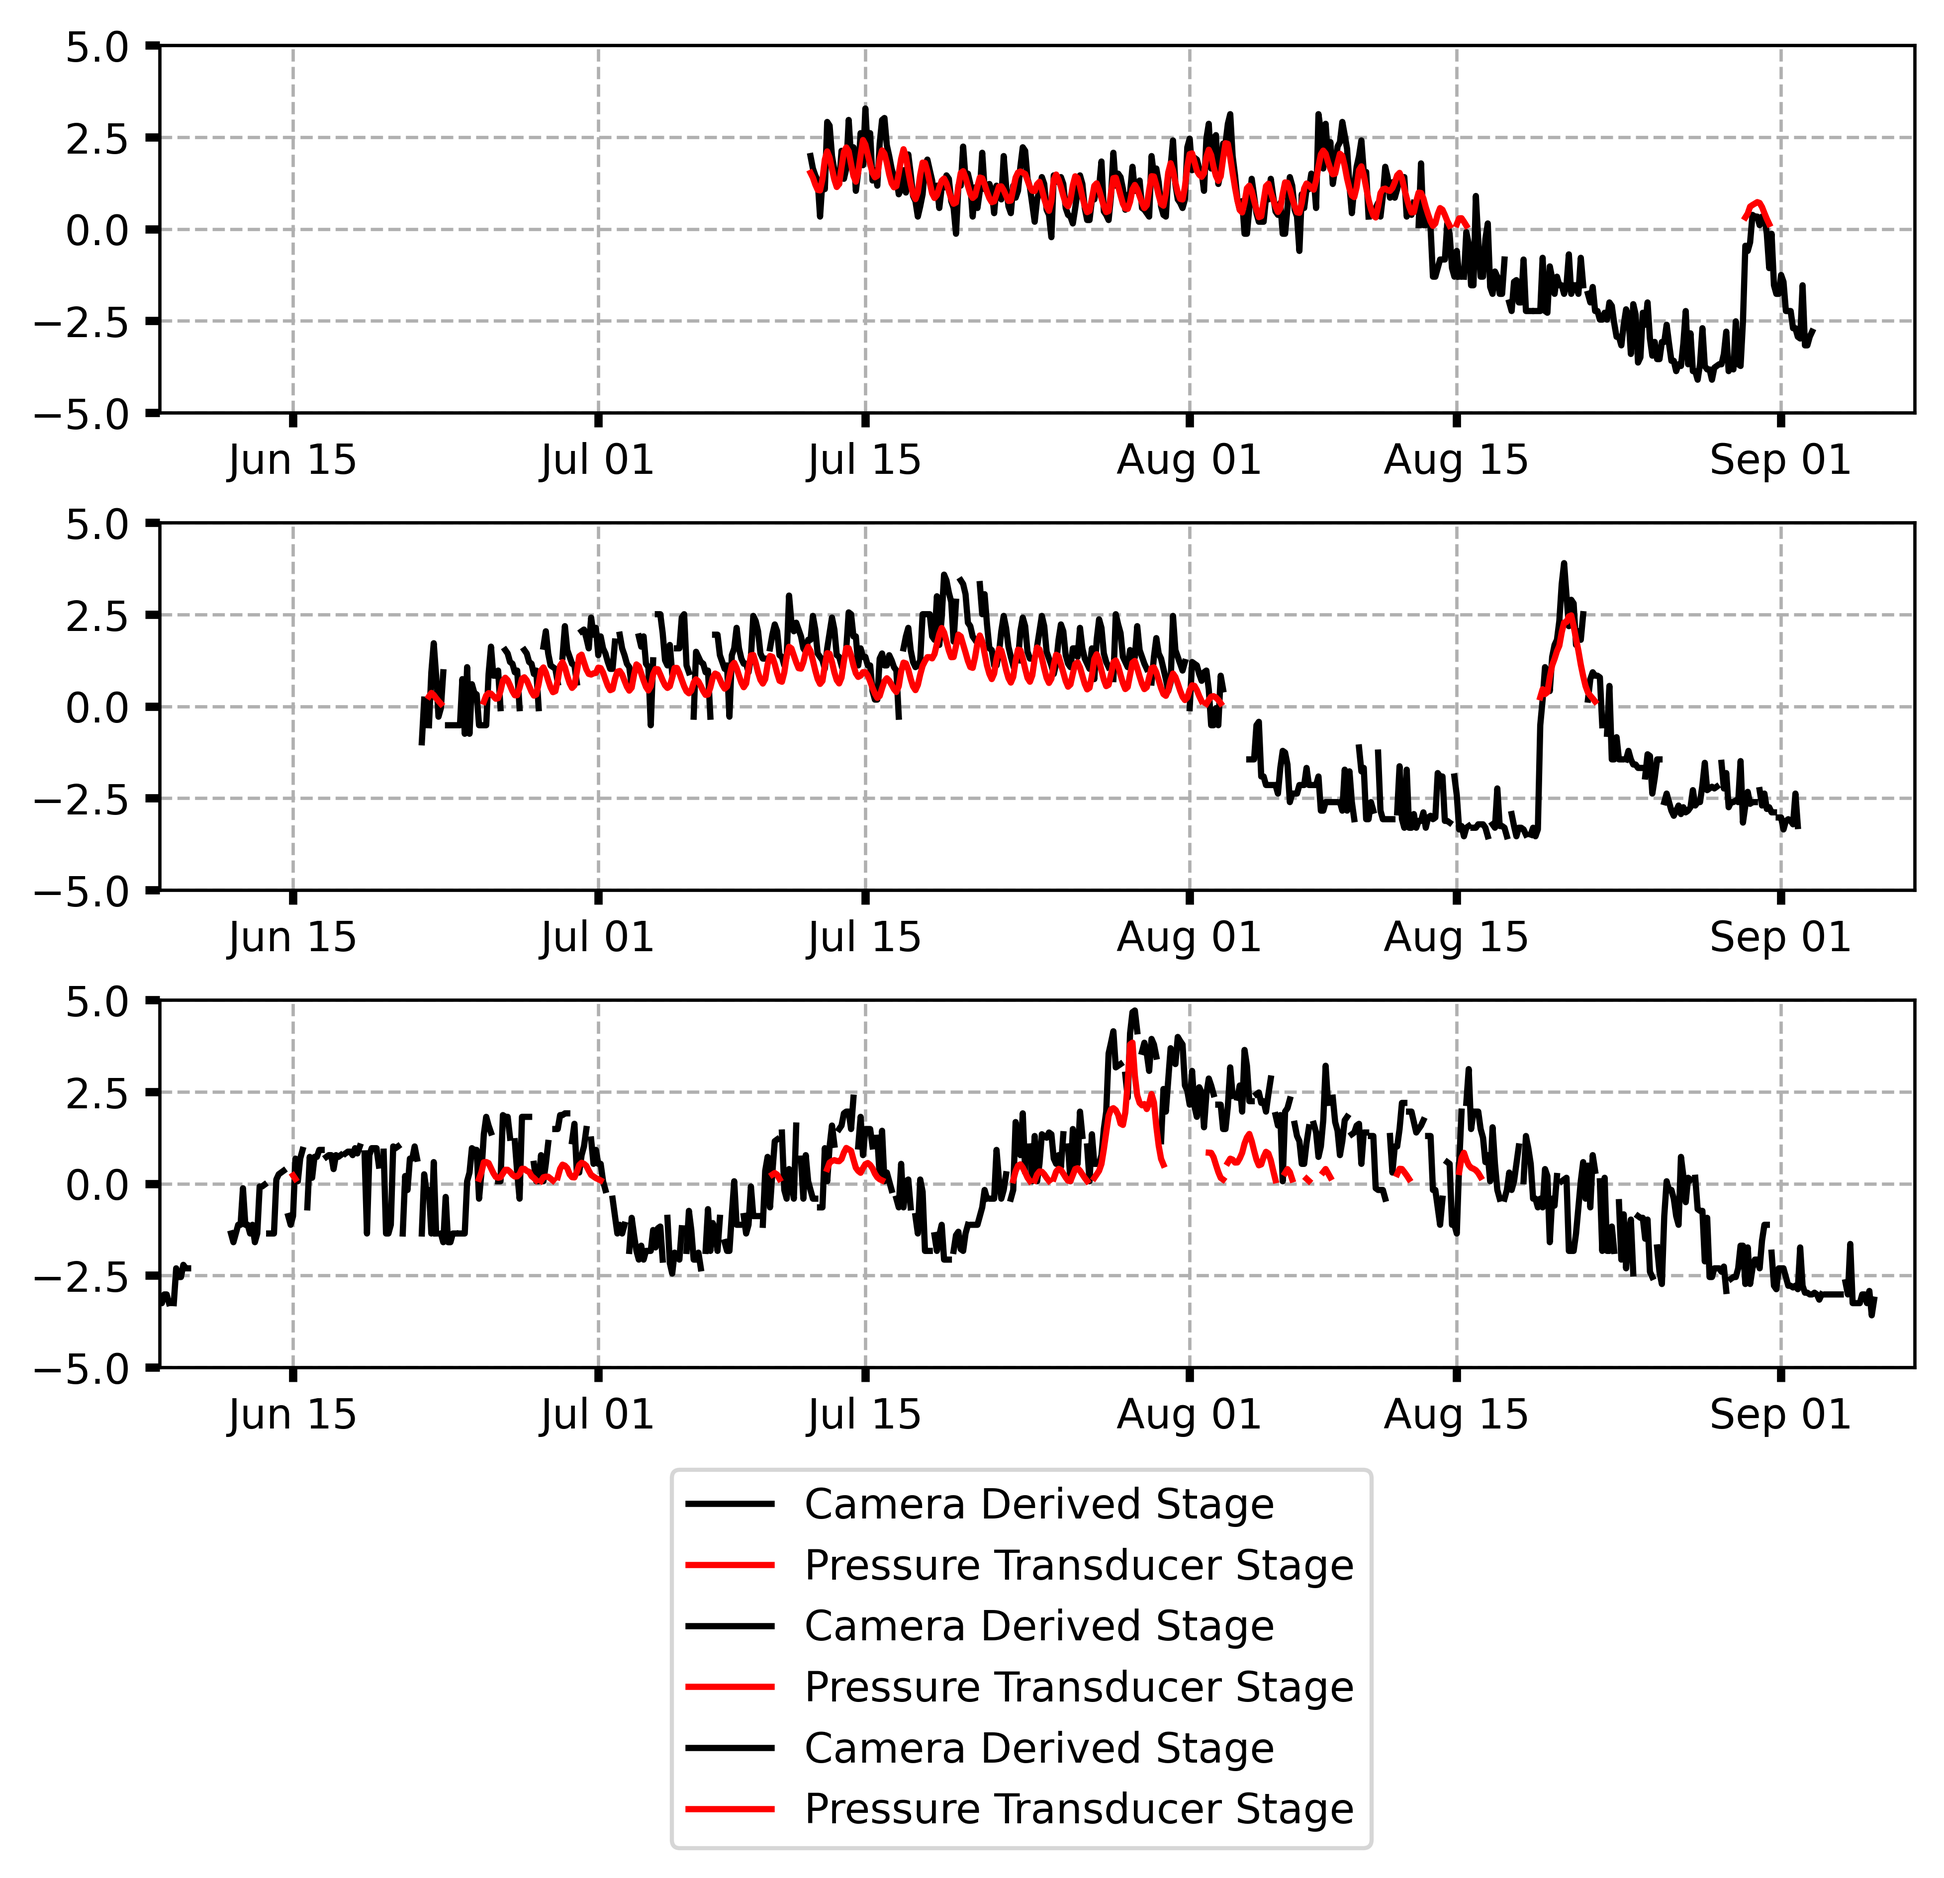
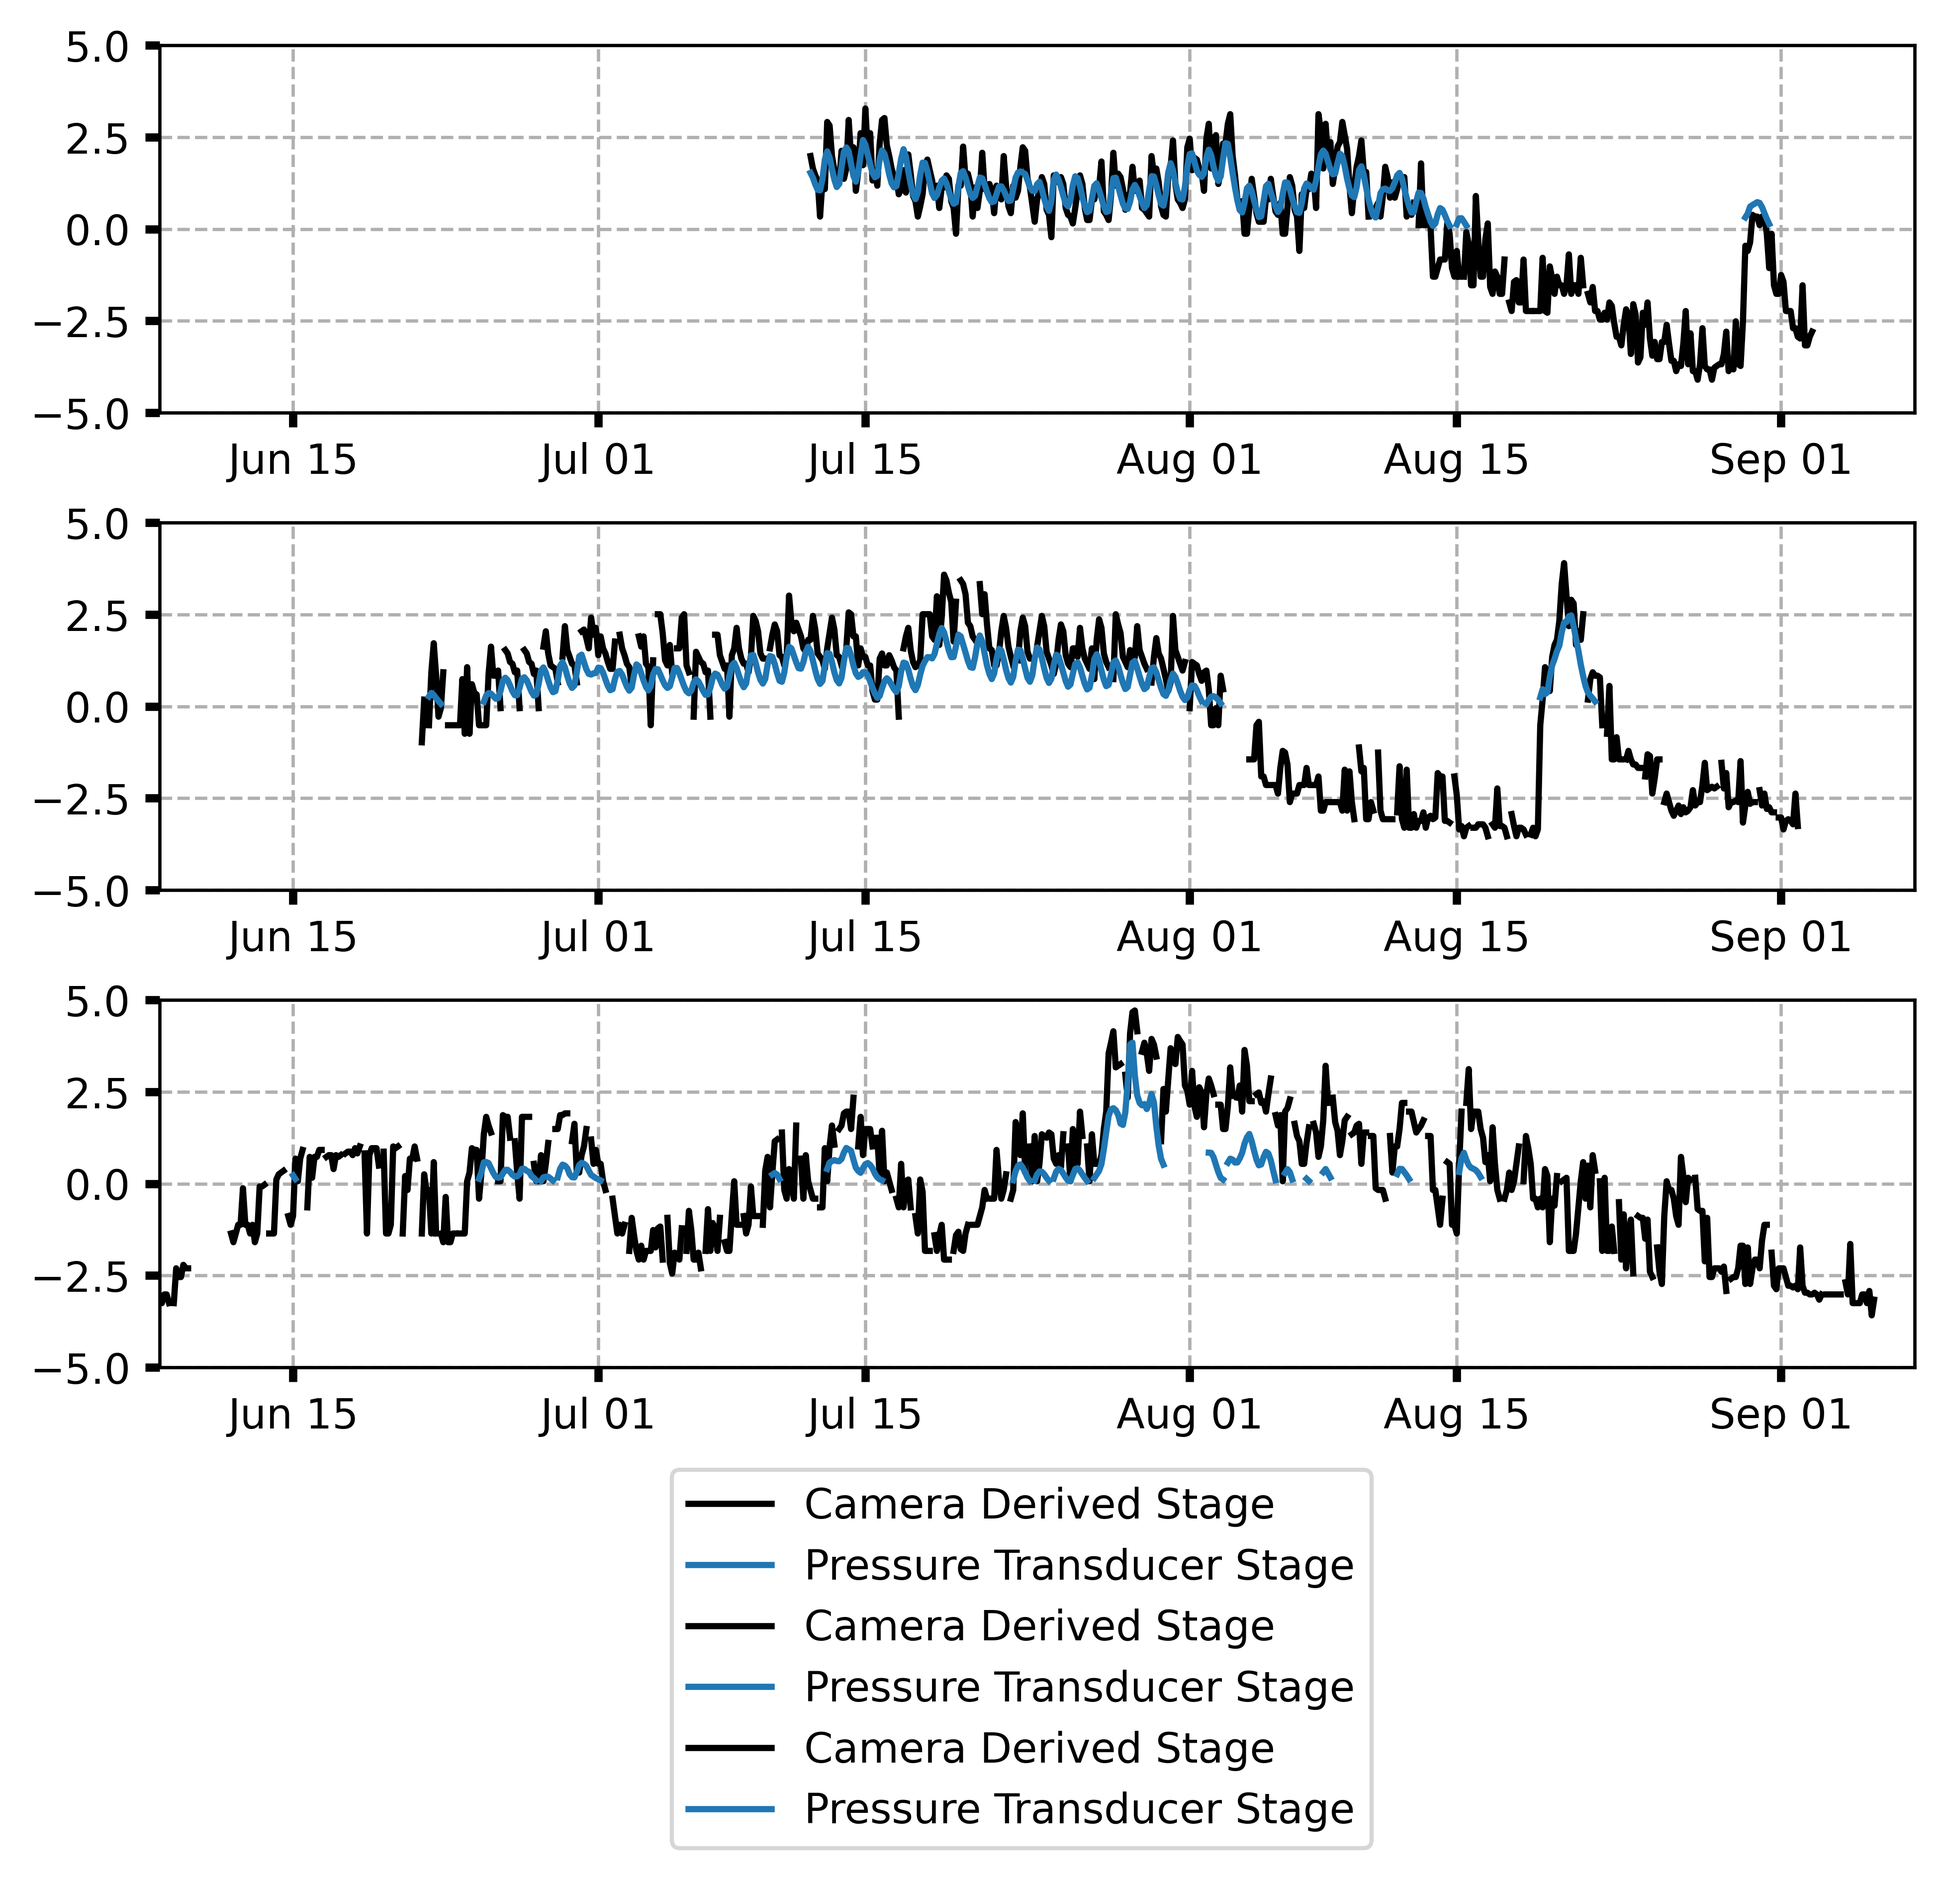
Figure colour changes

diff --git a/waterline_orthorectification.py b/waterline_orthorectification.py
@@ -282,7 +282,7 @@ pltTimeSeries(projectdf_z2021)
 
 def pltScatter(ax, var1, var2, pos1, pos2, label=None):
     '''Plot two variables as scatter subplot'''
-    ax[pos1,pos2].scatter(var1, var2, facecolors='none', edgecolors='blue')
+    ax[pos1,pos2].scatter(var1, var2, facecolors='none', edgecolors='black')
     ax[pos1,pos2].grid(linestyle= 'dashed')
     ax[pos1,pos2].set_ylim(bottom = -0.5, top =4.5)
     ax[pos1,pos2].set_xlim(left = -0.5, right =4.5)
@@ -327,7 +327,7 @@ def pltSeries(ax, df, dt1, dt2, pos, dt_form):
     '''Plot yearly record as subplot time-series'''
     ax[pos].plot(df.index, df['z_normalized'], color='black', 
                 label='Camera Derived Stage')
-    ax[pos].plot(df.index, df['stage_filtered'], color='red', 
+    ax[pos].plot(df.index, df['stage_filtered'], color='#1f77b4', 
                 label='Pressure Transducer Stage')
     ax[pos].grid(linestyle='dashed')
     ax[pos].set_ylim(-5, 5)
